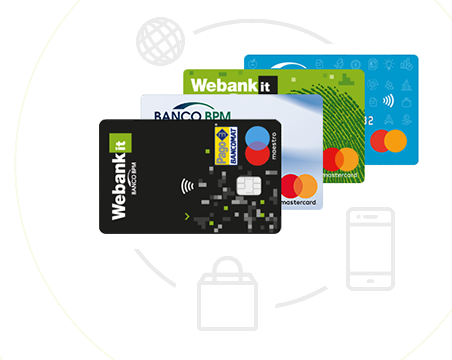
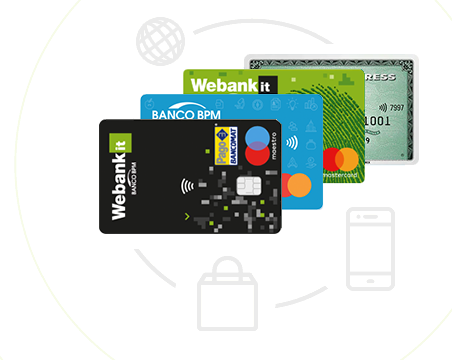
CARTE AMEX pubblica
CARTE AMEX pubblica

Changed region(s): [[0.3097, 0.2444, 0.7124, 0.6111], [0.5265, 0.1528, 0.9292, 0.4583]]

diff --git a/docs_wbresp/wbresp/css/prodotti.css b/docs_wbresp/wbresp/css/prodotti.css
@@ -637,7 +637,8 @@ assicurazioni.html -> Prodotti - assicurazioni
    CARTE DI CREDITO INIZIO
 ========================================================================== */
 .carte-di-credito.container01 {background: #2c2c2c url("/wbresp/img/carte/container_01_bg.jpg") no-repeat 0 0; background-size: cover;min-height:610px; overflow:hidden; margin-top:0px;padding:5px 30px 0 30px;text-align:center}
-.carte-di-credito.container01 h4 {text-align:center;margin: 55px auto 10px auto; color: #cbcbcb; text-transform:uppercase; font-family:"ralewaysemibold",arial, sans-serif; font-size:20px;font-weight:normal}
+.carte-di-credito.container01 h4 {text-align:center;margin: 30px auto 10px auto; color: #cbcbcb; text-transform:uppercase; font-family:"ralewaysemibold",arial, sans-serif; font-size:20px;font-weight:normal}
+.carte-di-credito.container01 h4.subtitle {text-transform:none;font-size: 15px; margin: 20px 0; text-align: left}
 .carte-di-credito.container01 h3 {margin: 20px auto 30px auto; font-size:32px; font-family:"ralewaysemibold",arial, sans-serif; color: #ffffff; }
 .carte-di-credito.container01 h5 {text-align:left;margin: 30px auto 0px auto; color: #FFF; text-transform:uppercase; font-family:"ralewaybold",arial, sans-serif; font-size:14px;font-weight:normal}
 .carte-di-credito.container01 p {text-align:left;margin: 10px auto 10px auto; color: #999999; font-family:"ralewaymedium",arial, sans-serif; font-size:14px;font-weight:normal}
@@ -761,6 +762,14 @@ assicurazioni.html -> Prodotti - assicurazioni
 
 
 }
+
+/*NUOVO OGGETTO CONTAINER 06 CARTE */
+.carte-di-credito.container06 {overflow: hidden;background:#fff url("/wbresp/img/carte/container_06_bg.jpg") no-repeat 0 0;background-size: 100% 100%;height:580px;margin-top:20px;padding-bottom:50px;clear:both;float: none;}
+.carte-di-credito.container06 h3 {margin: 0; font-size:30px; font-family:"ralewaysemibold",arial, sans-serif; color: #666; text-align:center}
+.carte-di-credito.container06 img {margin:10px auto 10px auto}
+.carte-di-credito.container06 p {font-size: 16px;color: #999;line-height: 24px;}
+.carte-di-credito.container06 ul li {font-size: 14px;line-height: 18px;font-family: "ralewaymedium",arial, sans-serif;color: #999;margin-bottom: 10px;}
+
 /* ==========================================================================
    CARTE DI CREDITO FINE
 ========================================================================== */

diff --git a/librerie/php/template_wbresp/tpl_carte-di-credito.php b/librerie/php/template_wbresp/tpl_carte-di-credito.php
@@ -20,9 +20,9 @@
 					<ul class="submenu">
 						<li><a href="#s1">LE CARTE DI WEBANK</a></li>
 						<li><a href="#s2">CARTE DI CREDITO</a></li>
-						<li><a href="#s3">CARTE DI DEBITO</a></li>
-						<li><a href="#s4">CARTE PREPAGATE</a></li>
-						<li><a href="#s5">BPM MASTERPASS</a></li>
+						<li><a href="#s3">CARTA DI DEBITO</a></li>
+						<li><a href="#s4">CARTA PREPAGATA</a></li>
+						<li><a href="#s5">CARTE AMERICAN EXPRESS</a></li>
 					</ul>
 				</div>
 				<!-- /colonna sinistra -->
@@ -33,22 +33,16 @@
 				<div class="carte-di-credito container01" id="s1">
 					<h4>LE CARTE DI WEBANK</h4>
 					<h3>Scegli la carta giusta per te!</h3>
+					<h4 class="subtitle">Con le carte proposte da Webank aderisci al&nbsp;Cashback di Stato, registrandole nell'App IO, e ottieni la restituzione del 10% delle somme spese.</h4>
 					<div class="row">
 						<div class="col-md-4 col-sm-12">
-							<img src="/wbresp/img/carte/c1.png" class="img-responsive" alt="Carte di credito" title="LE CARTE DI WEBANK - Carte di credito" />
+						    <img src="/wbresp/img/carte/c1.png?a=461" class="img-responsive" alt="Carte di credito" title="LE CARTE DI WEBANK - Carte di credito">
 							<h5>Carte di credito</h5>
-							<p>
-								Scegli la carta giusta per le tue esigenze, disponibili su circuito Visa e Mastercard.<br>
-								<br>
-								<strong>Nexi Classic</strong> la carta di credito contactless che ti permette di <strong>pagare anche tramite smartphone</strong>. <br>
-								Il canone &egrave; gratuito per sempre se la richiedi entro il 31/01/2021.<br>
-								<br>
-								<strong>Cartimpronta ONE</strong> contactless e dal <strong>canone gratuito</strong> sempre oppure <strong>Cartimpronta Gold Plus</strong>, completa e dal <strong>plafond elevato</strong> per i pi&ugrave; esigenti.
-							<p>
+							<p>preferisci la convenienza del canone gratuito di <b>Cartimpronta ONE</b> o la completezza di <b>Cartimpronta Gold Plus</b>, con il suo plafond elevato per i clienti più esigenti?</p>
 						</div>
 						<div class="col-md-4 col-sm-12">
 							<img src="/wbresp/img/carte/c2.png" class="img-responsive"  alt="Carte di debito" title="LE CARTE DI WEBANK - Carte di debito" />
-							<h5>Carte di debito</h5>
+							<h5>Carta di debito</h5>
 							<p>
 								la <strong>Carta di debito internazionale</strong> con canone gratuito ti consente di prelevare e pagare in tutto il mondo, attraverso i circuiti Bancomat, PagoBancomat e Maestro.
 								In più con l'App BANCOMAT Pay paghi, invii e ricevi denaro direttamente dal tuo smartphone.
@@ -56,9 +50,9 @@
 						</div>
 						<div class="col-md-4 col-sm-12">
 							<img src="/wbresp/img/carte/c3.png" class="img-responsive" alt="Carte prepagate" title="LE CARTE DI WEBANK - Carte prepagate">
-							<h5>Carte prepagate</h5>
+							<h5>Carta prepagata</h5>
 							<p>
-								<strong>Carta Prep@id by Banco BPM</strong> &egrave; l'alternativa semplice al denaro contante. La carta contactless con PIN personalizzabile che utilizzi online e nel mondo. Puoi ricaricare fino a 10.000 € in modo manuale o automatico.
+								<strong>Carta Prep@id by Banco BPM</strong> &egrave; l'alternativa semplice al denaro contante. La carta <strong>contactless</strong> con <strong>canone gratuito</strong> e PIN personalizzabile che utilizzi online e nel mondo. Puoi ricaricare fino a 10.000 € in modo manuale o automatico.
 							</p>
 						</div>
 
@@ -130,7 +124,7 @@
 
 								<p><span>&Egrave; la carta di credito per le esigenze pi&ugrave; esclusive, grazie alla sua elevata disponibilit&agrave; di spesa.</p>
 								<ul>
-								<li><strong>maxi plafond</strong> a partire da 5.200 &euro;</li>
+								<li><strong>Maxi plafond</strong> a partire da 5.200 &euro;</li>
 								<li><strong>extra-protezione</strong> per i tuoi acquisti, con le tecnologie 3D SecureCode, SMS Alert e BPM MasterPass</li>
 								<li><strong>zero commissioni</strong> sui rifornimenti di carburante</li>
 								<li><strong>zero spese</strong> su estratto conto, attivando la funzione per consultare i rendiconti in formato digitale</li>
@@ -325,7 +319,7 @@
 				<!-- container 5 inizio -->
 
 
-					<div class="carte-di-credito container05" id="s5">
+					<div class="carte-di-credito container05">
 						<h3>BPM MASTERPASS</h3>
 							<div class="row">
 									<div class="col-md-12 col-sm-12">
@@ -354,10 +348,27 @@
 
 
 					</div>
-
-
-				<!-- container 5 fine -->
-				<p class="note">MESSAGGIO PUBBLICITARIO CON FINALIT&Agrave; PROMOZIONALE<br>
+					<!-- NUOVO BOX CARTE DI CREDITO-->
+					<div class="carte-di-credito container06" id="s5">
+						<h3>American Express</h3>
+						<img src="/wbresp/img/carte/carte_american_express.png" class="icon" alt="American Express">
+						<div class="row">
+							<div class="col-sm-12 col-xs-12">
+								 <p>Le carte <strong>American Express</strong> ti consentono di effettuare <strong>qualsiasi spesa senza limiti</strong> ai tuoi desideri:</p>
+								 <ul>
+									 <li>tecnologia Contactless e paghi anche con ApplePay</li>
+									 <li>servizio SMS Alert gratuito</li>
+									 <li>monitori le tue spese con l'App Amex</li>
+									 <li>protezione d’acquisto: tutela per 90 giorni sugli acquisti (escluse alcune categorie merceologiche) in caso di furto o danneggiamento del bene</li>
+									  <li>protezione antifrode in caso di uso illecito della Carta da parte di terzi</li>
+									  <li>servizio clienti American Express ogni giorno disponibile 24 ore su 24, dall'Italia e dall'Estero </li>
+								</ul>
+							</div>
+						</div>
+                    </div>
+				
+				    <!-- FINE NUOVO BOX CARTE DI CREDITO-->
+					<p class="note">MESSAGGIO PUBBLICITARIO CON FINALIT&Agrave; PROMOZIONALE<br>
 				Per le condizioni economiche e contrattuali delle carte di pagamento Webank, anche dei servizi di messaggistica e alert, fare riferimento ai Fogli Informativi disponibili sui siti <a href="https://www.webank.it" target="_blank">www.webank.it</a> e <a target="_blank" href="https://www.bancobpm.it">www.bancobpm.it</a> nella sezione Trasparenza.<br>
 				In merito al servizio 3D Secure di Cartimpronta One e Gold Plus fare riferimento al portale dedicato <a target="_blank" href="https://carte.bancobpm.it/portal/portal/portale/titolari">https://carte.bancobpm.it/portal/portal/portale/titolari</a>.<br>
 				Per le condizioni economiche e contrattuali della carta di credito Nexi Classic, anche dei servizi di messaggistica e alert, fare riferimento ai Fogli Informativi disponibili presso le filiali Banco BPM e sui siti www.bancobpm.it, www.webank.it e www.nexi.it nella sezione Trasparenza. Promozione valida fino al 31/01/2021. <br>Il servizio Spending Control &egrave; riservato ai titolari di una carta Nexi Classic iscritti all'area personale del sito nexi.it e all'App Nexi Pay, per maggiori informazioni consulta il link <a href="">https://www.nexi.it/content/dam/nexi/download/trasparenza/regolamenti/terms-and-conditions-spending-control.pdf</a>
@@ -366,6 +377,9 @@
 				Di seguito i requisiti minimi necessari per richiedere le carte di credito ai fini valutativi da parte di Webank: accredito dello stipendio da almeno 2 mesi, saldo di conto corrente superiore a 5.000 &euro;, accrediti mensili ricorrenti superiori a 1.500 &euro;. Il rilascio delle carte di credito è sempre subordinato alla positiva valutazione di merito da parte della banca.
 
 				</p>
+
+				<!-- container 5 fine -->
+
 				</div>
 				<!-- /colonna centrale -->
 

diff --git a/docs_convergenza/template/template_wbresp/tpl_carte-di-credito.php b/docs_convergenza/template/template_wbresp/tpl_carte-di-credito.php
@@ -20,9 +20,9 @@
 					<ul class="submenu">
 						<li><a href="#s1">LE CARTE DI WEBANK</a></li>
 						<li><a href="#s2">CARTE DI CREDITO</a></li>
-						<li><a href="#s3">CARTE DI DEBITO</a></li>
-						<li><a href="#s4">CARTE PREPAGATE</a></li>
-						<li><a href="#s5">BPM MASTERPASS</a></li>
+						<li><a href="#s3">CARTA DI DEBITO</a></li>
+						<li><a href="#s4">CARTA PREPAGATA</a></li>
+						<li><a href="#s5">CARTE AMERICAN EXPRESS</a></li>
 					</ul>
 				</div>
 				<!-- /colonna sinistra -->
@@ -33,22 +33,16 @@
 				<div class="carte-di-credito container01" id="s1">
 					<h4>LE CARTE DI WEBANK</h4>
 					<h3>Scegli la carta giusta per te!</h3>
+					<h4 class="subtitle">Con le carte proposte da Webank aderisci al&nbsp;Cashback di Stato, registrandole nell'App IO, e ottieni la restituzione del 10% delle somme spese.</h4>
 					<div class="row">
 						<div class="col-md-4 col-sm-12">
-							<img src="/wbresp/img/carte/c1.png" class="img-responsive" alt="Carte di credito" title="LE CARTE DI WEBANK - Carte di credito" />
+						    <img src="/wbresp/img/carte/c1.png?a=461" class="img-responsive" alt="Carte di credito" title="LE CARTE DI WEBANK - Carte di credito">
 							<h5>Carte di credito</h5>
-							<p>
-								Scegli la carta giusta per le tue esigenze, disponibili su circuito Visa e Mastercard.<br>
-								<br>
-								<strong>Nexi Classic</strong> la carta di credito contactless che ti permette di <strong>pagare anche tramite smartphone</strong>. <br>
-								Il canone &egrave; gratuito per sempre se la richiedi entro il 31/01/2021.<br>
-								<br>
-								<strong>Cartimpronta ONE</strong> contactless e dal <strong>canone gratuito</strong> sempre oppure <strong>Cartimpronta Gold Plus</strong>, completa e dal <strong>plafond elevato</strong> per i pi&ugrave; esigenti.
-							<p>
+							<p>preferisci la convenienza del canone gratuito di <b>Cartimpronta ONE</b> o la completezza di <b>Cartimpronta Gold Plus</b>, con il suo plafond elevato per i clienti più esigenti?</p>
 						</div>
 						<div class="col-md-4 col-sm-12">
 							<img src="/wbresp/img/carte/c2.png" class="img-responsive"  alt="Carte di debito" title="LE CARTE DI WEBANK - Carte di debito" />
-							<h5>Carte di debito</h5>
+							<h5>Carta di debito</h5>
 							<p>
 								la <strong>Carta di debito internazionale</strong> con canone gratuito ti consente di prelevare e pagare in tutto il mondo, attraverso i circuiti Bancomat, PagoBancomat e Maestro.
 								In più con l'App BANCOMAT Pay paghi, invii e ricevi denaro direttamente dal tuo smartphone.
@@ -56,9 +50,9 @@
 						</div>
 						<div class="col-md-4 col-sm-12">
 							<img src="/wbresp/img/carte/c3.png" class="img-responsive" alt="Carte prepagate" title="LE CARTE DI WEBANK - Carte prepagate">
-							<h5>Carte prepagate</h5>
+							<h5>Carta prepagata</h5>
 							<p>
-								<strong>Carta Prep@id by Banco BPM</strong> &egrave; l'alternativa semplice al denaro contante. La carta contactless con PIN personalizzabile che utilizzi online e nel mondo. Puoi ricaricare fino a 10.000 € in modo manuale o automatico.
+								<strong>Carta Prep@id by Banco BPM</strong> &egrave; l'alternativa semplice al denaro contante. La carta <strong>contactless</strong> con <strong>canone gratuito</strong> e PIN personalizzabile che utilizzi online e nel mondo. Puoi ricaricare fino a 10.000 € in modo manuale o automatico.
 							</p>
 						</div>
 
@@ -325,7 +319,7 @@
 				<!-- container 5 inizio -->
 
 
-					<div class="carte-di-credito container05" id="s5">
+					<div class="carte-di-credito container05">
 						<h3>BPM MASTERPASS</h3>
 							<div class="row">
 									<div class="col-md-12 col-sm-12">
@@ -354,6 +348,26 @@
 
 
 					</div>
+					<!-- NUOVO BOX CARTE DI CREDITO-->
+					<div class="carte-di-credito container06" id="s5">
+						<h3>American Express</h3>
+						<img src="/wbresp/img/carte/carte_american_express.png" class="icon" alt="American Express">
+						<div class="row">
+							<div class="col-sm-12 col-xs-12">
+								 <p>Le carte <strong>American Express</strong> ti consentono di effettuare <strong>qualsiasi spesa senza limiti</strong> ai tuoi desideri:</p>
+								 <ul>
+									 <li>tecnologia Contactless e paghi anche con ApplePay</li>
+									 <li>servizio SMS Alert gratuito</li>
+									 <li>monitori le tue spese con l'App Amex</li>
+									 <li>protezione d’acquisto: tutela per 90 giorni sugli acquisti (escluse alcune categorie merceologiche) in caso di furto o danneggiamento del bene</li>
+									  <li>protezione antifrode in caso di uso illecito della Carta da parte di terzi</li>
+									  <li>servizio clienti American Express ogni giorno disponibile 24 ore su 24, dall'Italia e dall'Estero </li>
+								</ul>
+							</div>
+						</div>
+                    </div>
+				
+				    <!-- FINE NUOVO BOX CARTE DI CREDITO-->
 					<p class="note">MESSAGGIO PUBBLICITARIO CON FINALIT&Agrave; PROMOZIONALE<br>
 				Per le condizioni economiche e contrattuali delle carte di pagamento Webank, anche dei servizi di messaggistica e alert, fare riferimento ai Fogli Informativi disponibili sui siti <a href="https://www.webank.it" target="_blank">www.webank.it</a> e <a target="_blank" href="https://www.bancobpm.it">www.bancobpm.it</a> nella sezione Trasparenza.<br>
 				In merito al servizio 3D Secure di Cartimpronta One e Gold Plus fare riferimento al portale dedicato <a target="_blank" href="https://carte.bancobpm.it/portal/portal/portale/titolari">https://carte.bancobpm.it/portal/portal/portale/titolari</a>.<br>

diff --git a/docs_convergenza/template/template_wbresp/tpl_conto_webank.php b/docs_convergenza/template/template_wbresp/tpl_conto_webank.php
@@ -236,6 +236,8 @@ Promozione valida a fronte di accredito stipendio/pensione o domiciliazione uten
                                     </div>
                                 </div>
 								
+
+
                             </div>
                             <div class="col-xs-12 alignCenter"> <a class="btn-grlit btn-grlit-arrow btn-fs14  uppercase" href="#">Apri conto Webank</a> </div>
                         </div>
@@ -251,39 +253,34 @@ Promozione valida a fronte di accredito stipendio/pensione o domiciliazione uten
                                 Ma esiste la carta giusta per te!
                             </span>
                         </h3>
-                        <h4>Sceglila tra le carte di credito, debito e prepagate proposte da Webank.</h4>
+                        <h4>Scegli tra le carte di credito, debito e prepagate proposte da Webank. <br><br>
+                        Puoi aderire al <strong>Cashback di Stato</strong>, registrandole nell’App IO, e ottieni la restituzione del 10% delle somme spese.
+                        </h4>
                         <div class="col-xs-12 nopadding b3-container">
 
                             <div class="col-sm-4 col-xs-12">
-                                <img src="/wbresp/img/conto_webank/conto_webank-nexi-impronta.png" class="carta" alt="Nexi Classic e Cartimpronta ONE">
-                                <p>
-                                    <b>Carte di credito</b><br>
-                                    Disponibili su circuito Visa e Mastercard.<br>
-                                    <br>
-                                    <strong>Nexi Classic</strong> la carta di credito contactless che ti permette di <strong>pagare anche tramite smartphone</strong>. <br>
-                                    Il canone &egrave; gratuito per sempre se la richiedi entro il 31/01/2021.<br>
-                                    <br>
-                                    <strong>Cartimpronta ONE</strong> contactless e dal <strong>canone gratuito sempre</strong> oppure <strong>Cartimpronta Gold Plus</strong>, completa e dal <strong>plafond elevato</strong> per i pi&ugrave; esigenti.
-                                </p>
+                                <img src="/wbresp/img/conto_webank/conto_webank-cartimpronta.png?a=461" class="carta" alt="Cartimpronta ONE">
+                                <p><b>Carte di credito</b><br>
+                                Cartimpronta ONE con canone gratuito e Cartimpronta Gold Plus con plafond elevato per i clienti più esigenti. Paghi in Italia e in area Euro su circuito MasterCard o Visa senza commissione e anche in modalità contactless.</p>
                             </div>
                             <div class="col-sm-4 col-xs-12">
                                 <img src="/wbresp/img/conto_webank/conto_webank-bancomat.png" class="carta" alt="Bancomat Webank">
                                 <p>
-                                    <b>Carte di debito</b><br>
+                                    <b>Carta di debito</b><br>
                                     <strong>Carta di debito internazionale</strong> con canone gratuito. Prelievi gratuiti presso gli sportelli automatici di tutte le banche in Italia e in area Euro.
                                 </p>
                             </div>
                             <div class="col-sm-4 col-xs-12">
                                 <img src="/wbresp/img/conto_webank/conto_webank-cartaprepaid.png" class="carta" alt="Carta Prep@id by Banco BPM">
                                 <p>
-                                    <b>Carte prepagate</b><br>
-                                    <strong>Carta Prep@id by Banco BPM</strong> &egrave; l'alternativa semplice al denaro contante. La carta contactless con PIN personalizzabile che utilizzi online e nel mondo. Puoi ricaricare fino a 10.000 &euro; in modo manuale o automatico.
+                                    <b>Carta prepagata</b><br>
+                                    <strong>Carta Prep@id by Banco BPM</strong> con <strong>canone gratuito</strong>, l'alternativa semplice al denaro contante. La carta contactless con PIN personalizzabile che utilizzi online e nel mondo. Puoi ricaricare fino a 10.000 &euro; in modo manuale o automatico.
                                 </p>
                             </div>
 
                         </div>
                         <div class="col-sm-6 col-xs-12 alignCenter">
-                            <a class="btn-grlit btn-grlit-arrow btn-fs14 btn-gray-border uppercase" href="/webankpub/wbresp/t1/carte_di_credito.do">Scopri le nostre carte</a>
+                            <a class="btn-grlit btn-grlit-arrow btn-fs14 btn-gray-border uppercase" href="/webankpub/wbresp/t1/carte_di_credito.do">Scopri tutte le carte</a>
                             <br>
                         </div>
                         <div class="col-sm-6 col-xs-12 alignCenter">

diff --git a/librerie/php/template_wbresp/tpl_conto_webank.php b/librerie/php/template_wbresp/tpl_conto_webank.php
@@ -236,6 +236,8 @@ Promozione valida a fronte di accredito stipendio/pensione o domiciliazione uten
                                     </div>
                                 </div>
 								
+
+
                             </div>
                             <div class="col-xs-12 alignCenter"> <a class="btn-grlit btn-grlit-arrow btn-fs14  uppercase" href="#">Apri conto Webank</a> </div>
                         </div>
@@ -251,39 +253,34 @@ Promozione valida a fronte di accredito stipendio/pensione o domiciliazione uten
                                 Ma esiste la carta giusta per te!
                             </span>
                         </h3>
-                        <h4>Sceglila tra le carte di credito, debito e prepagate proposte da Webank.</h4>
+                        <h4>Scegli tra le carte di credito, debito e prepagate proposte da Webank. <br><br>
+                        Puoi aderire al <strong>Cashback di Stato</strong>, registrandole nell’App IO, e ottieni la restituzione del 10% delle somme spese.
+                        </h4>
                         <div class="col-xs-12 nopadding b3-container">
 
                             <div class="col-sm-4 col-xs-12">
-                                <img src="/wbresp/img/conto_webank/conto_webank-nexi-impronta.png" class="carta" alt="Nexi Classic e Cartimpronta ONE">
-                                <p>
-                                    <b>Carte di credito</b><br>
-                                    Disponibili su circuito Visa e Mastercard.<br>
-                                    <br>
-                                    <strong>Nexi Classic</strong> la carta di credito contactless che ti permette di <strong>pagare anche tramite smartphone</strong>. <br>
-                                    Il canone &egrave; gratuito per sempre se la richiedi entro il 31/01/2021.<br>
-                                    <br>
-                                    <strong>Cartimpronta ONE</strong> contactless e dal <strong>canone gratuito sempre</strong> oppure <strong>Cartimpronta Gold Plus</strong>, completa e dal <strong>plafond elevato</strong> per i pi&ugrave; esigenti.
-                                </p>
+                                <img src="/wbresp/img/conto_webank/conto_webank-cartimpronta.png?a=461" class="carta" alt="Cartimpronta ONE">
+                                <p><b>Carte di credito</b><br>
+                                Cartimpronta ONE con canone gratuito e Cartimpronta Gold Plus con plafond elevato per i clienti più esigenti. Paghi in Italia e in area Euro su circuito MasterCard o Visa senza commissione e anche in modalità contactless.</p>
                             </div>
                             <div class="col-sm-4 col-xs-12">
                                 <img src="/wbresp/img/conto_webank/conto_webank-bancomat.png" class="carta" alt="Bancomat Webank">
                                 <p>
-                                    <b>Carte di debito</b><br>
+                                    <b>Carta di debito</b><br>
                                     <strong>Carta di debito internazionale</strong> con canone gratuito. Prelievi gratuiti presso gli sportelli automatici di tutte le banche in Italia e in area Euro.
                                 </p>
                             </div>
                             <div class="col-sm-4 col-xs-12">
                                 <img src="/wbresp/img/conto_webank/conto_webank-cartaprepaid.png" class="carta" alt="Carta Prep@id by Banco BPM">
                                 <p>
-                                    <b>Carte prepagate</b><br>
-                                    <strong>Carta Prep@id by Banco BPM</strong> &egrave; l'alternativa semplice al denaro contante. La carta contactless con PIN personalizzabile che utilizzi online e nel mondo. Puoi ricaricare fino a 10.000 &euro; in modo manuale o automatico.
+                                    <b>Carta prepagata</b><br>
+                                    <strong>Carta Prep@id by Banco BPM</strong> con <strong>canone gratuito</strong>, l'alternativa semplice al denaro contante. La carta contactless con PIN personalizzabile che utilizzi online e nel mondo. Puoi ricaricare fino a 10.000 &euro; in modo manuale o automatico.
                                 </p>
                             </div>
 
                         </div>
                         <div class="col-sm-6 col-xs-12 alignCenter">
-                            <a class="btn-grlit btn-grlit-arrow btn-fs14 btn-gray-border uppercase" href="/webankpub/wbresp/t1/carte_di_credito.do">Scopri le nostre carte</a>
+                            <a class="btn-grlit btn-grlit-arrow btn-fs14 btn-gray-border uppercase" href="/webankpub/wbresp/t1/carte_di_credito.do">Scopri tutte le carte</a>
                             <br>
                         </div>
                         <div class="col-sm-6 col-xs-12 alignCenter">
